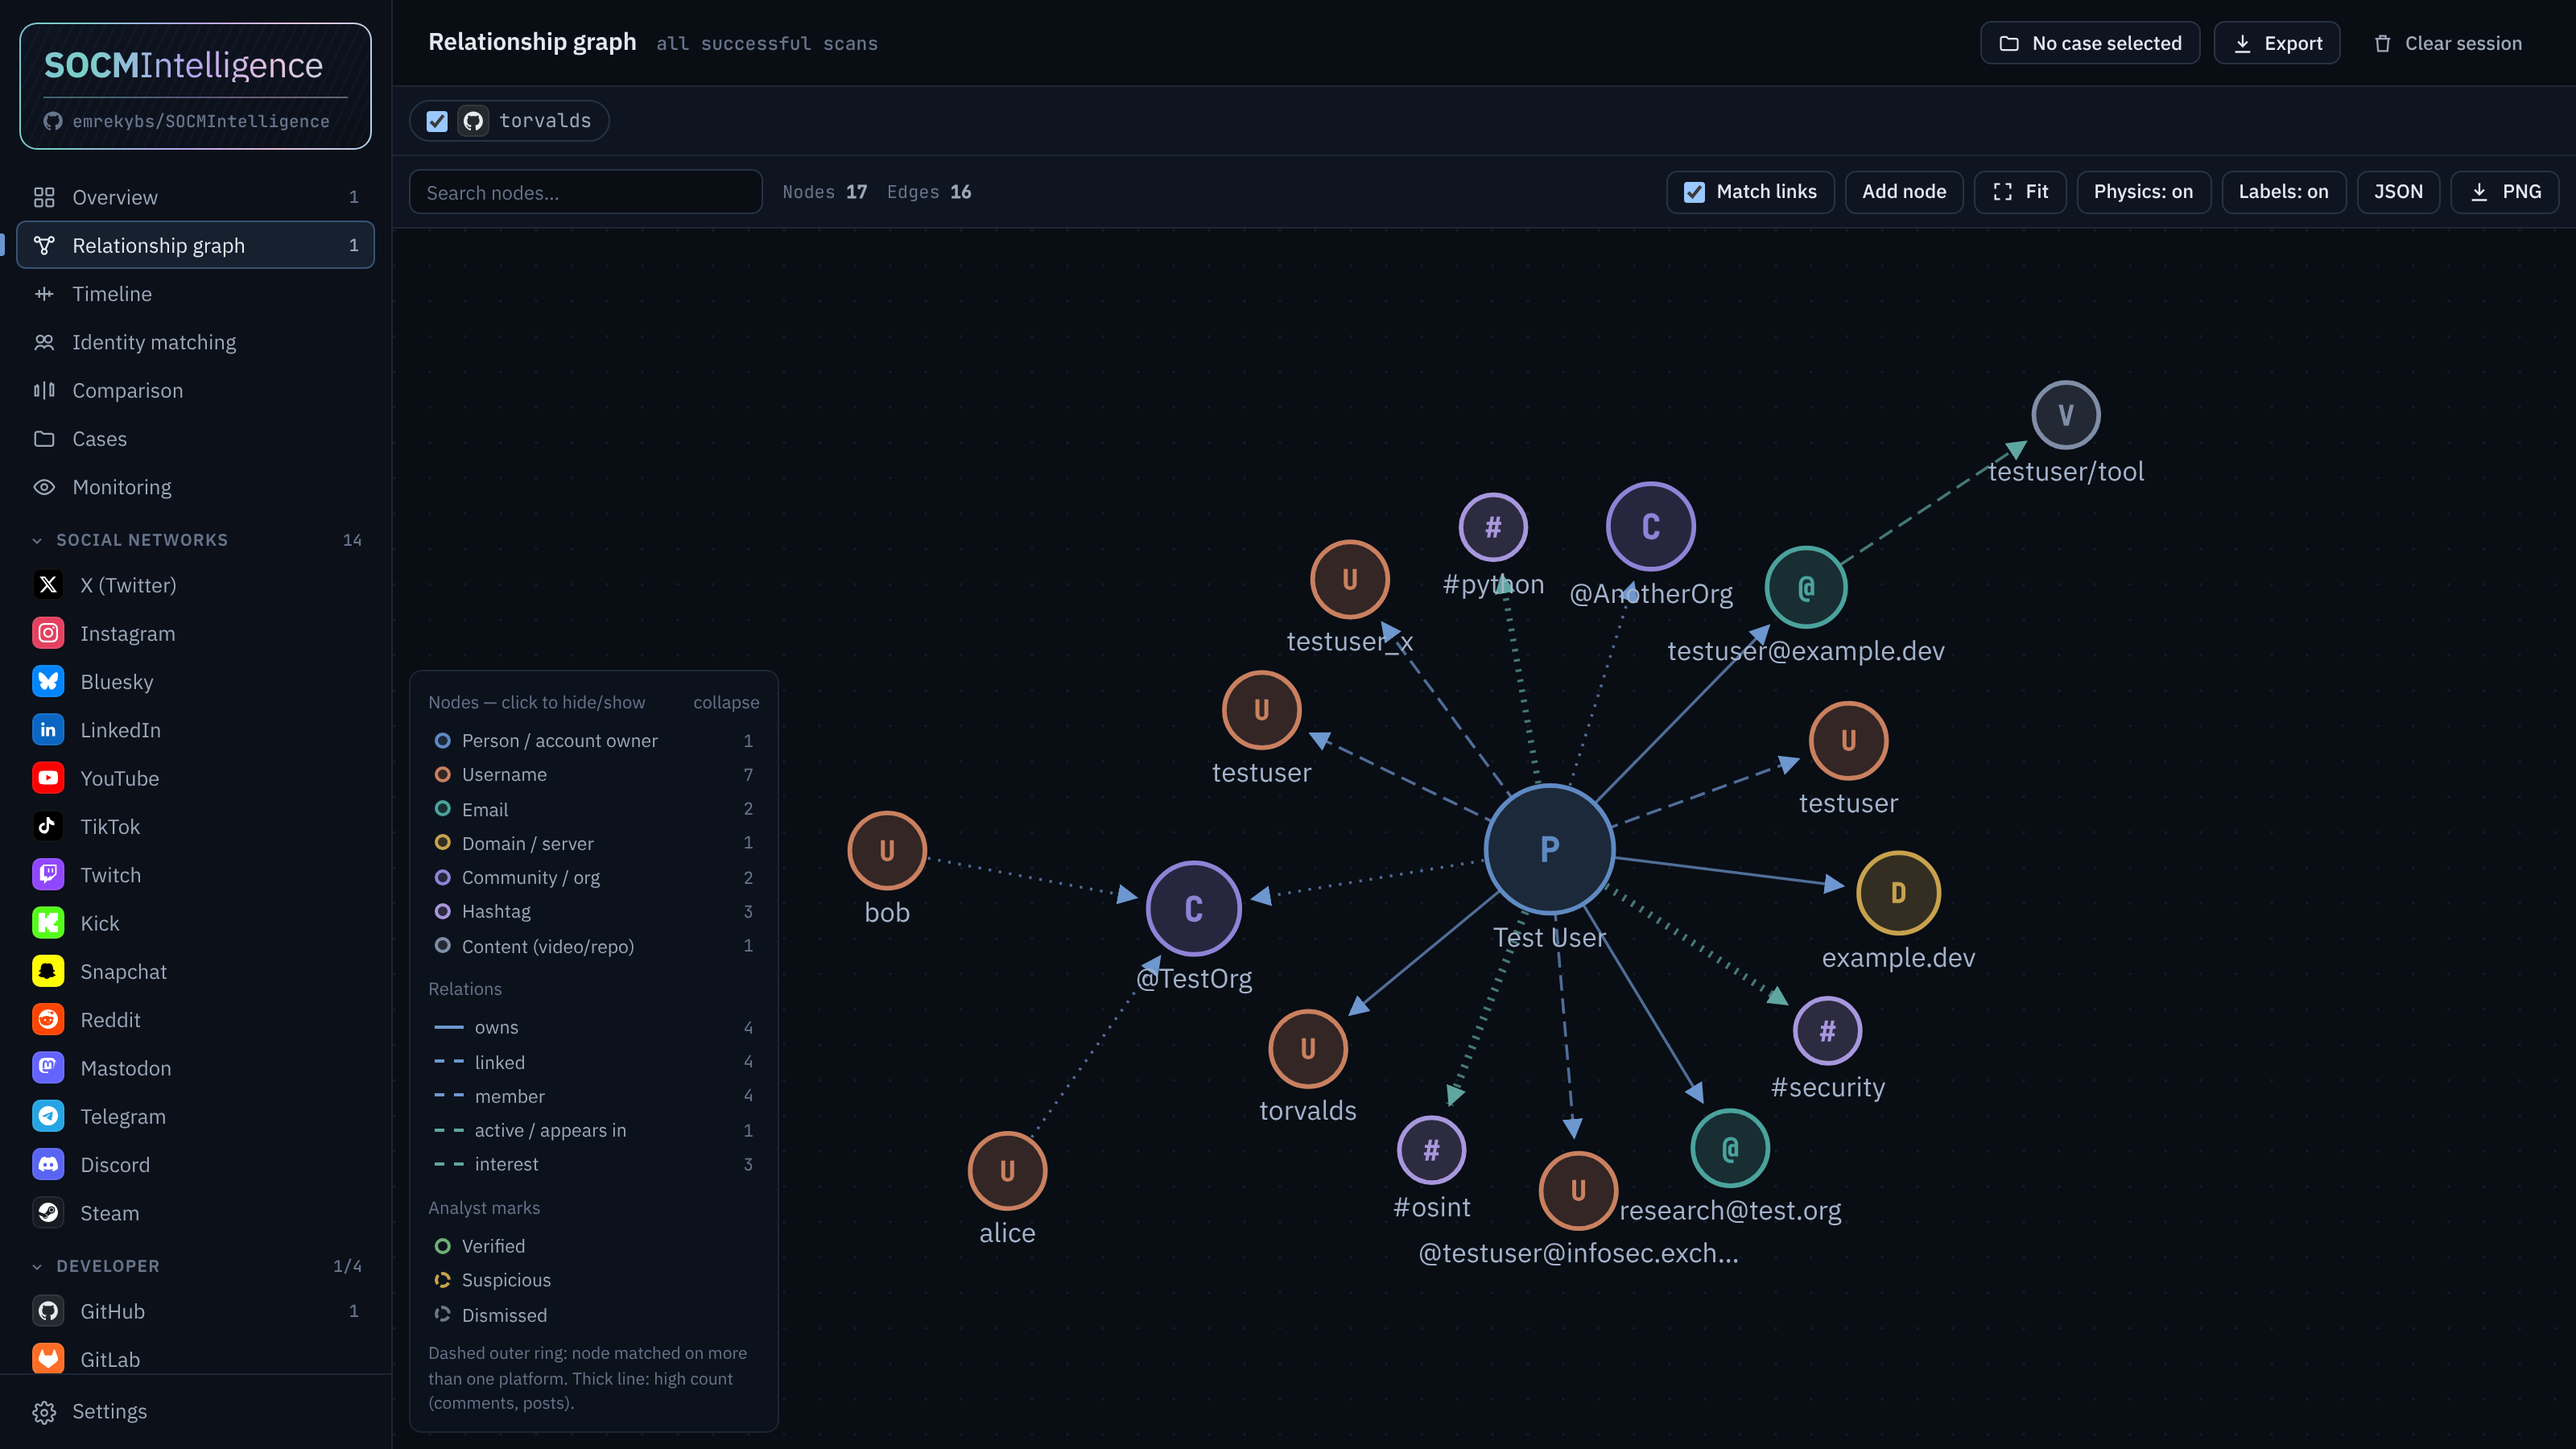
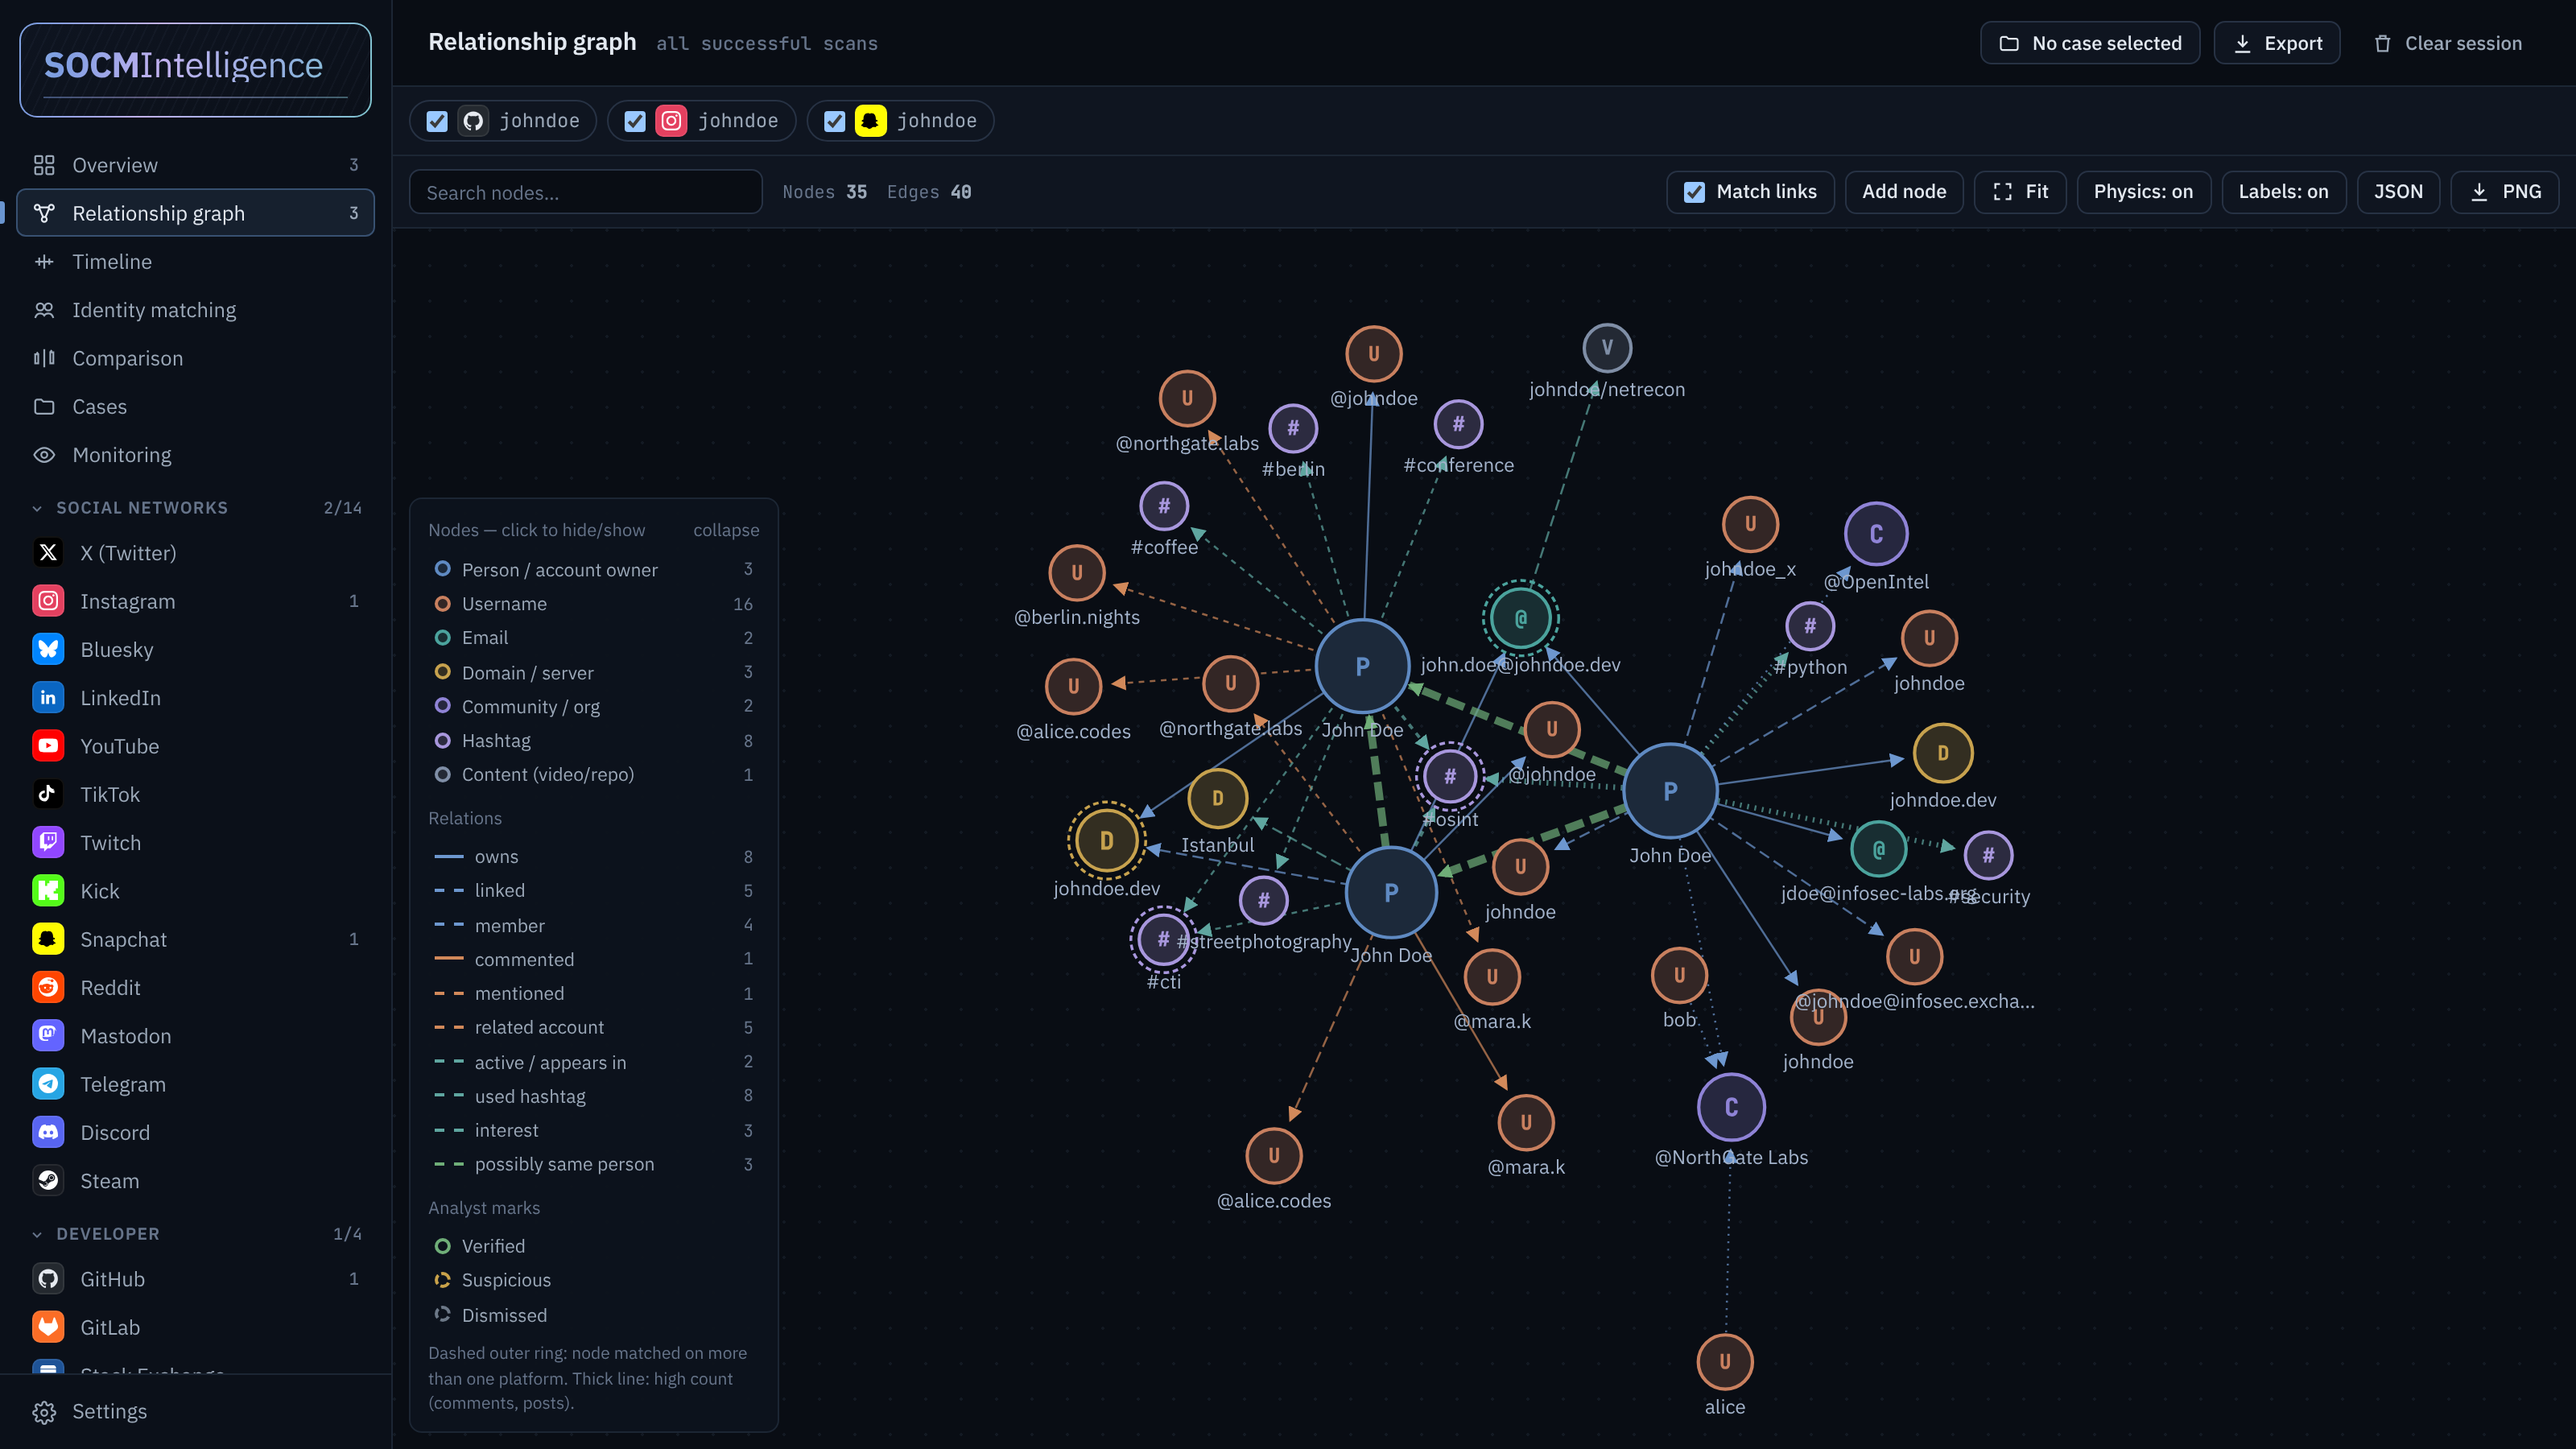
Update README and screenshot

diff --git a/README.md b/README.md
@@ -9,11 +9,6 @@
 </p>
 
 <p align="center">
-  <img src="https://img.shields.io/badge/pip-socmintelligence-5b83b0">
-
-</p>
-
-<p align="center">
   <img src="docs/screenshots/graph.png" alt="SOCMIntelligence relationship graph" width="100%">
 </p>
 
